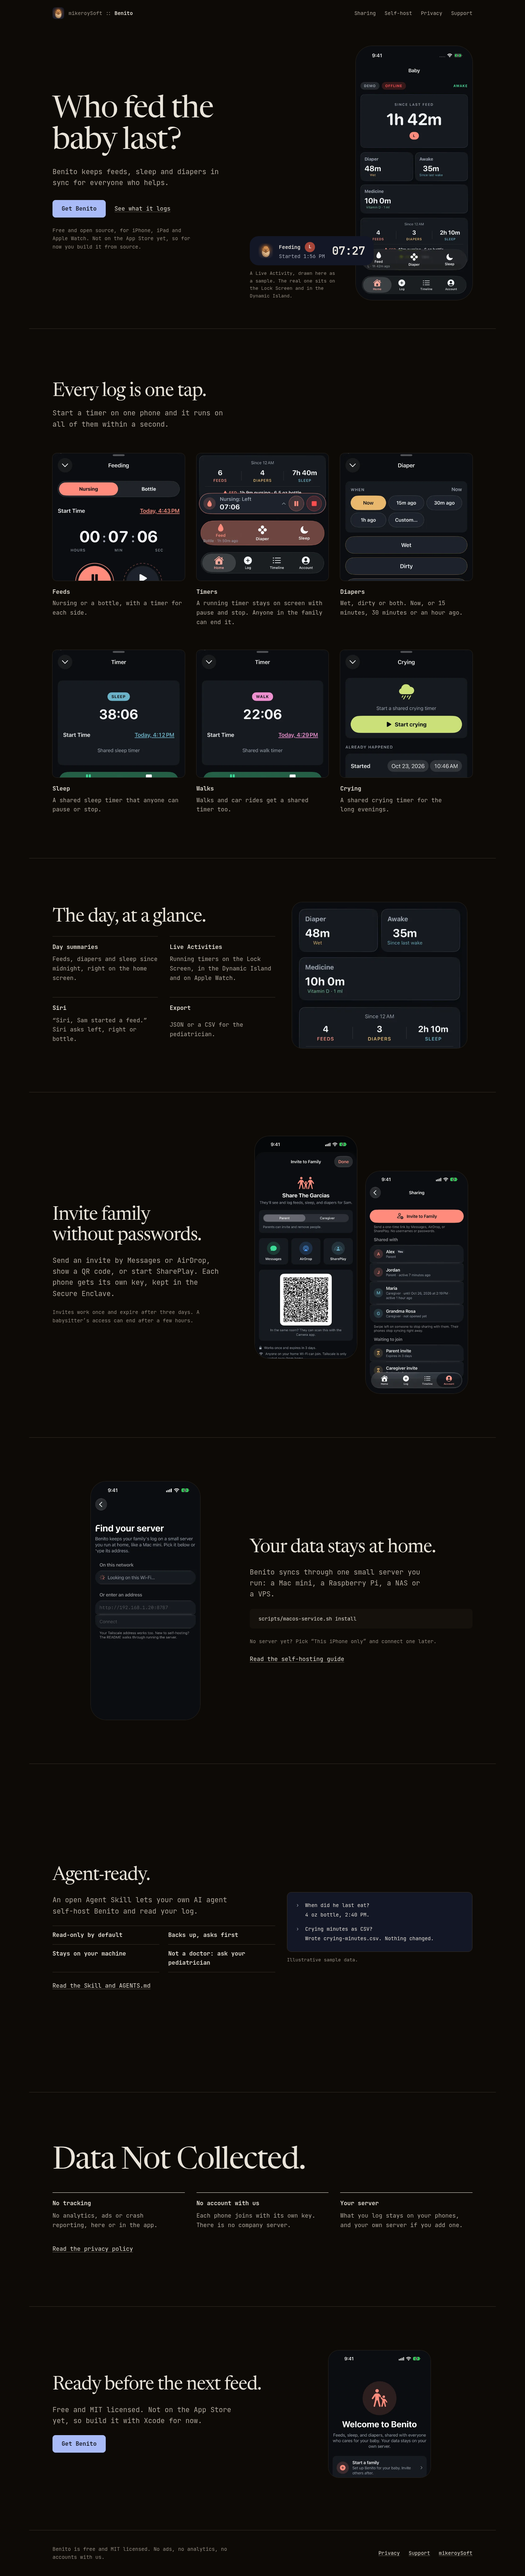
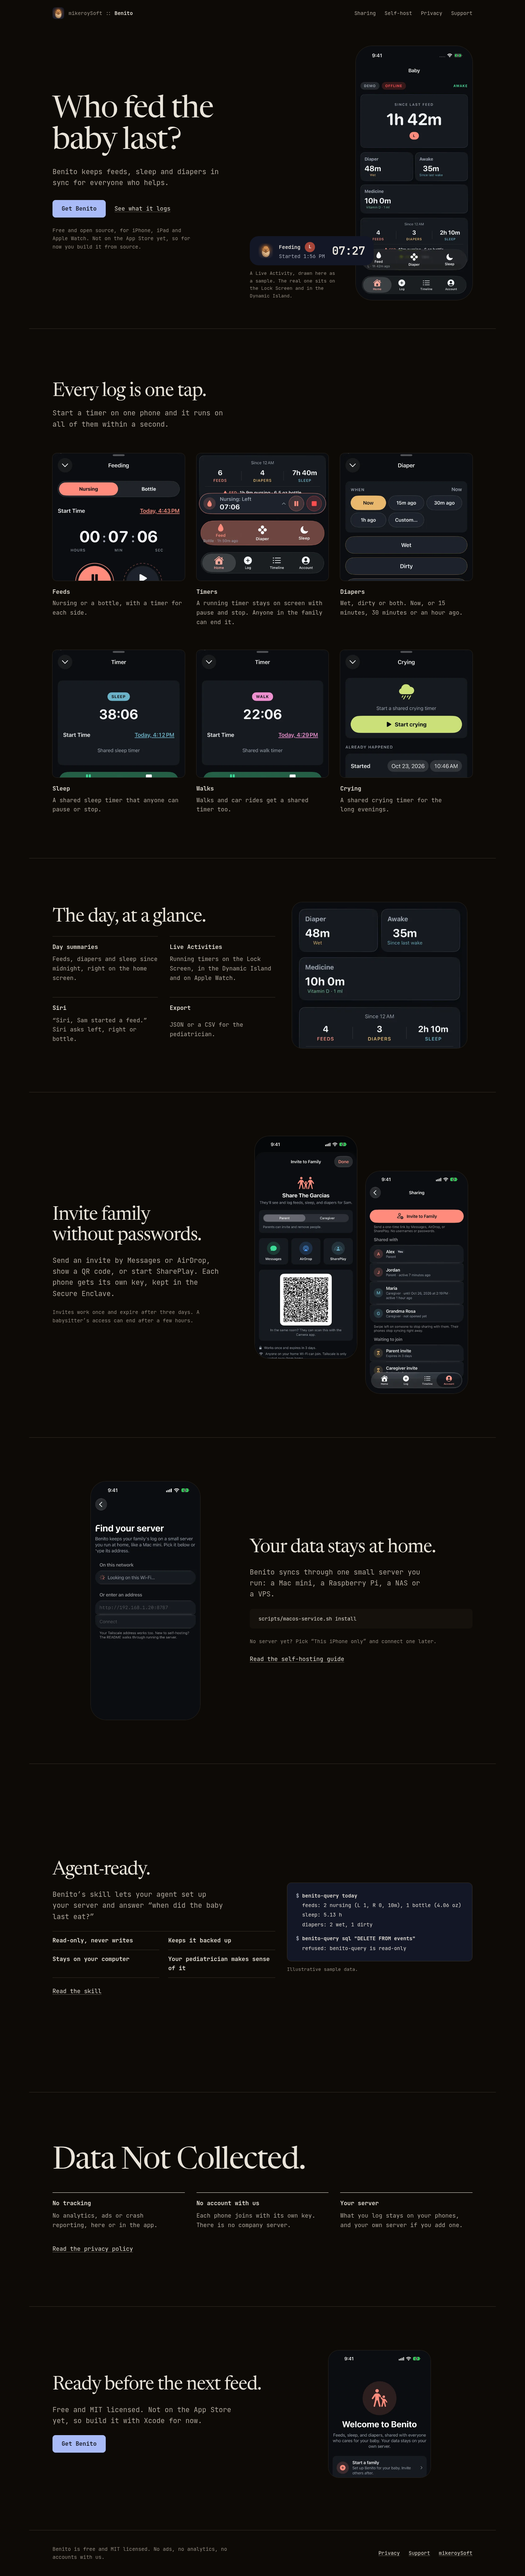
Agent-ready: approved copy, real benito-query output, links to skills/benito and AGENTS.md

Changed region(s): [[0.5625, 0.7169, 0.875, 0.7793], [0.0938, 0.7169, 0.2812, 0.7793], [0.3125, 0.7481, 0.4375, 0.7793]]

diff --git a/site/index.html b/site/index.html
@@ -129,25 +129,26 @@
   </div>
 </section>
 
-<!-- AGENT-READY: copy is a placeholder until Benito PM's blurb and file paths land. Swap the h2, lead, facts and link freely. -->
 <section class="band band--split band--agent container" id="agents" aria-labelledby="agents-title">
   <div class="split__text">
     <h2 id="agents-title">Agent-ready.</h2>
-    <p class="lead">An open Agent Skill lets your own AI agent self-host Benito and read your log.</p>
+    <p class="lead">Benito’s skill lets your agent set up your server and answer “when did the baby last eat?”</p>
     <ul class="agent__facts" role="list">
-      <li>Read-only by default</li>
-      <li>Backs up, asks first</li>
-      <li>Stays on your machine</li>
-      <li>Not a doctor: ask your pediatrician</li>
+      <li>Read-only, never writes</li>
+      <li>Keeps it backed up</li>
+      <li>Stays on your computer</li>
+      <li>Your pediatrician makes sense of it</li>
     </ul>
-    <p><a href="https://github.com/mikeroySoft-org/benito-app/tree/main/skills/benito">Read the Skill and <code>AGENTS.md</code></a></p>
+    <p><a href="https://github.com/mikeroySoft-org/benito-app/tree/main/skills/benito">Read the skill</a></p>
   </div>
   <figure class="term split__visual" data-reveal>
-    <div class="term__body" role="group" aria-label="An illustrative chat with an agent, using sample data">
-      <p class="term__line term__line--you"><span aria-hidden="true">›</span><span>When did he last eat?</span></p>
-      <p class="term__line term__line--agent"><span></span><span>4 oz bottle, 2:40 PM.</span></p>
-      <p class="term__line term__line--you"><span aria-hidden="true">›</span><span>Crying minutes as CSV?</span></p>
-      <p class="term__line term__line--agent"><span></span><span>Wrote crying-minutes.csv. Nothing changed.</span></p>
+    <div class="term__body" role="group" aria-label="The benito-query helper in a terminal, with sample data">
+      <p class="term__line term__line--cmd"><span>$</span><code>benito-query today</code></p>
+      <p class="term__line"><span></span><span>feeds: 2 nursing (L 1, R 0, 10m), 1 bottle (4.06 oz)</span></p>
+      <p class="term__line"><span></span><span>sleep: 5.13 h</span></p>
+      <p class="term__line"><span></span><span>diapers: 2 wet, 1 dirty</span></p>
+      <p class="term__line term__line--cmd"><span>$</span><code>benito-query sql "DELETE FROM events"</code></p>
+      <p class="term__line"><span></span><span>refused: benito-query is read-only</span></p>
     </div>
     <figcaption>Illustrative sample data.</figcaption>
   </figure>

diff --git a/site/self-host/index.html b/site/self-host/index.html
@@ -40,7 +40,7 @@ curl -s http://127.0.0.1:8080/health</code></pre><p>On Linux or a NAS, <a href="
 cd apps/Benito &amp;&amp; xcodegen generate
 open Benito.xcodeproj</code></pre><p>First copy <code>Local.xcconfig.example</code> to <code>Local.xcconfig</code> and set your team.</p></div></li>
 <li class="row" id="invite"><h2>Invite your family</h2><div class="row__body"><p>Account, Sharing, <b>Invite to Family</b>. Send it by Messages, AirDrop, QR or SharePlay. Each works once, for three days.</p></div></li>
-<li class="row" id="agent"><h2>Or ask your agent</h2><div class="row__body"><p>Your own AI agent, on your machine, can follow the repo’s Agent Skill and <code>AGENTS.md</code> to install the server. It reads your log only, asks before any change, and sends nothing to us.</p><p><a href="https://github.com/mikeroySoft-org/benito-app/tree/main/skills/benito">Read the Agent Skill</a></p></div></li>
+<li class="row" id="agent"><h2>Or ask your agent</h2><div class="row__body"><p>Point your AI agent at the repo and its built-in skill can set up this server, keep it backed up and answer questions from your own database. It only reads, and everything stays on your computer.</p><p><a href="https://github.com/mikeroySoft-org/benito-app/tree/main/skills/benito">Read the skill</a> or <a href="https://github.com/mikeroySoft-org/benito-app/blob/main/AGENTS.md"><code>AGENTS.md</code></a></p></div></li>
 <li class="row" id="guides"><h2>Guides</h2><div class="row__body"><ul class="links">
 <li><a href="https://github.com/mikeroysoft-org/benito-app/blob/main/docs/deploy-macos.md">Run it on a Mac</a></li>
 <li><a href="https://github.com/mikeroysoft-org/benito-app/blob/main/docs/deploy-tailscale.md">Reach it with Tailscale</a></li>

diff --git a/site/assets/site.css b/site/assets/site.css
@@ -109,10 +109,10 @@ html:not(.js) .live__toggle { display: none; }
 .lead code, .row__body code { font-size: 0.92em; }
 .term { display: grid; gap: var(--space-sm); width: 100%; max-width: 520px; margin: 0; }
 .term__body { display: grid; gap: var(--space-2xs); padding: var(--space-lg); border-radius: var(--radius-card); border: 1px solid var(--color-rule); background: var(--color-night); color: var(--color-night-ink); font: var(--weight-body) var(--text-sm)/1.6 var(--font-body); }
-.term__line { display: grid; grid-template-columns: 3ch minmax(0, 1fr); max-width: none; }
+.term__line { display: grid; grid-template-columns: 2ch minmax(0, 1fr); max-width: none; }
 .term__line > :first-child { color: var(--color-night-muted); }
-.term__line--you:not(:first-child) { margin-top: var(--space-sm); }
-.term__line--agent > :first-child { font-weight: 600; }
+.term__line--cmd { font-weight: 600; }
+.term__line--cmd:not(:first-child) { margin-top: var(--space-sm); }
 .term figcaption { font-size: var(--text-xs); color: var(--color-muted); }
 
 /* Sharing: two screens side by side */
